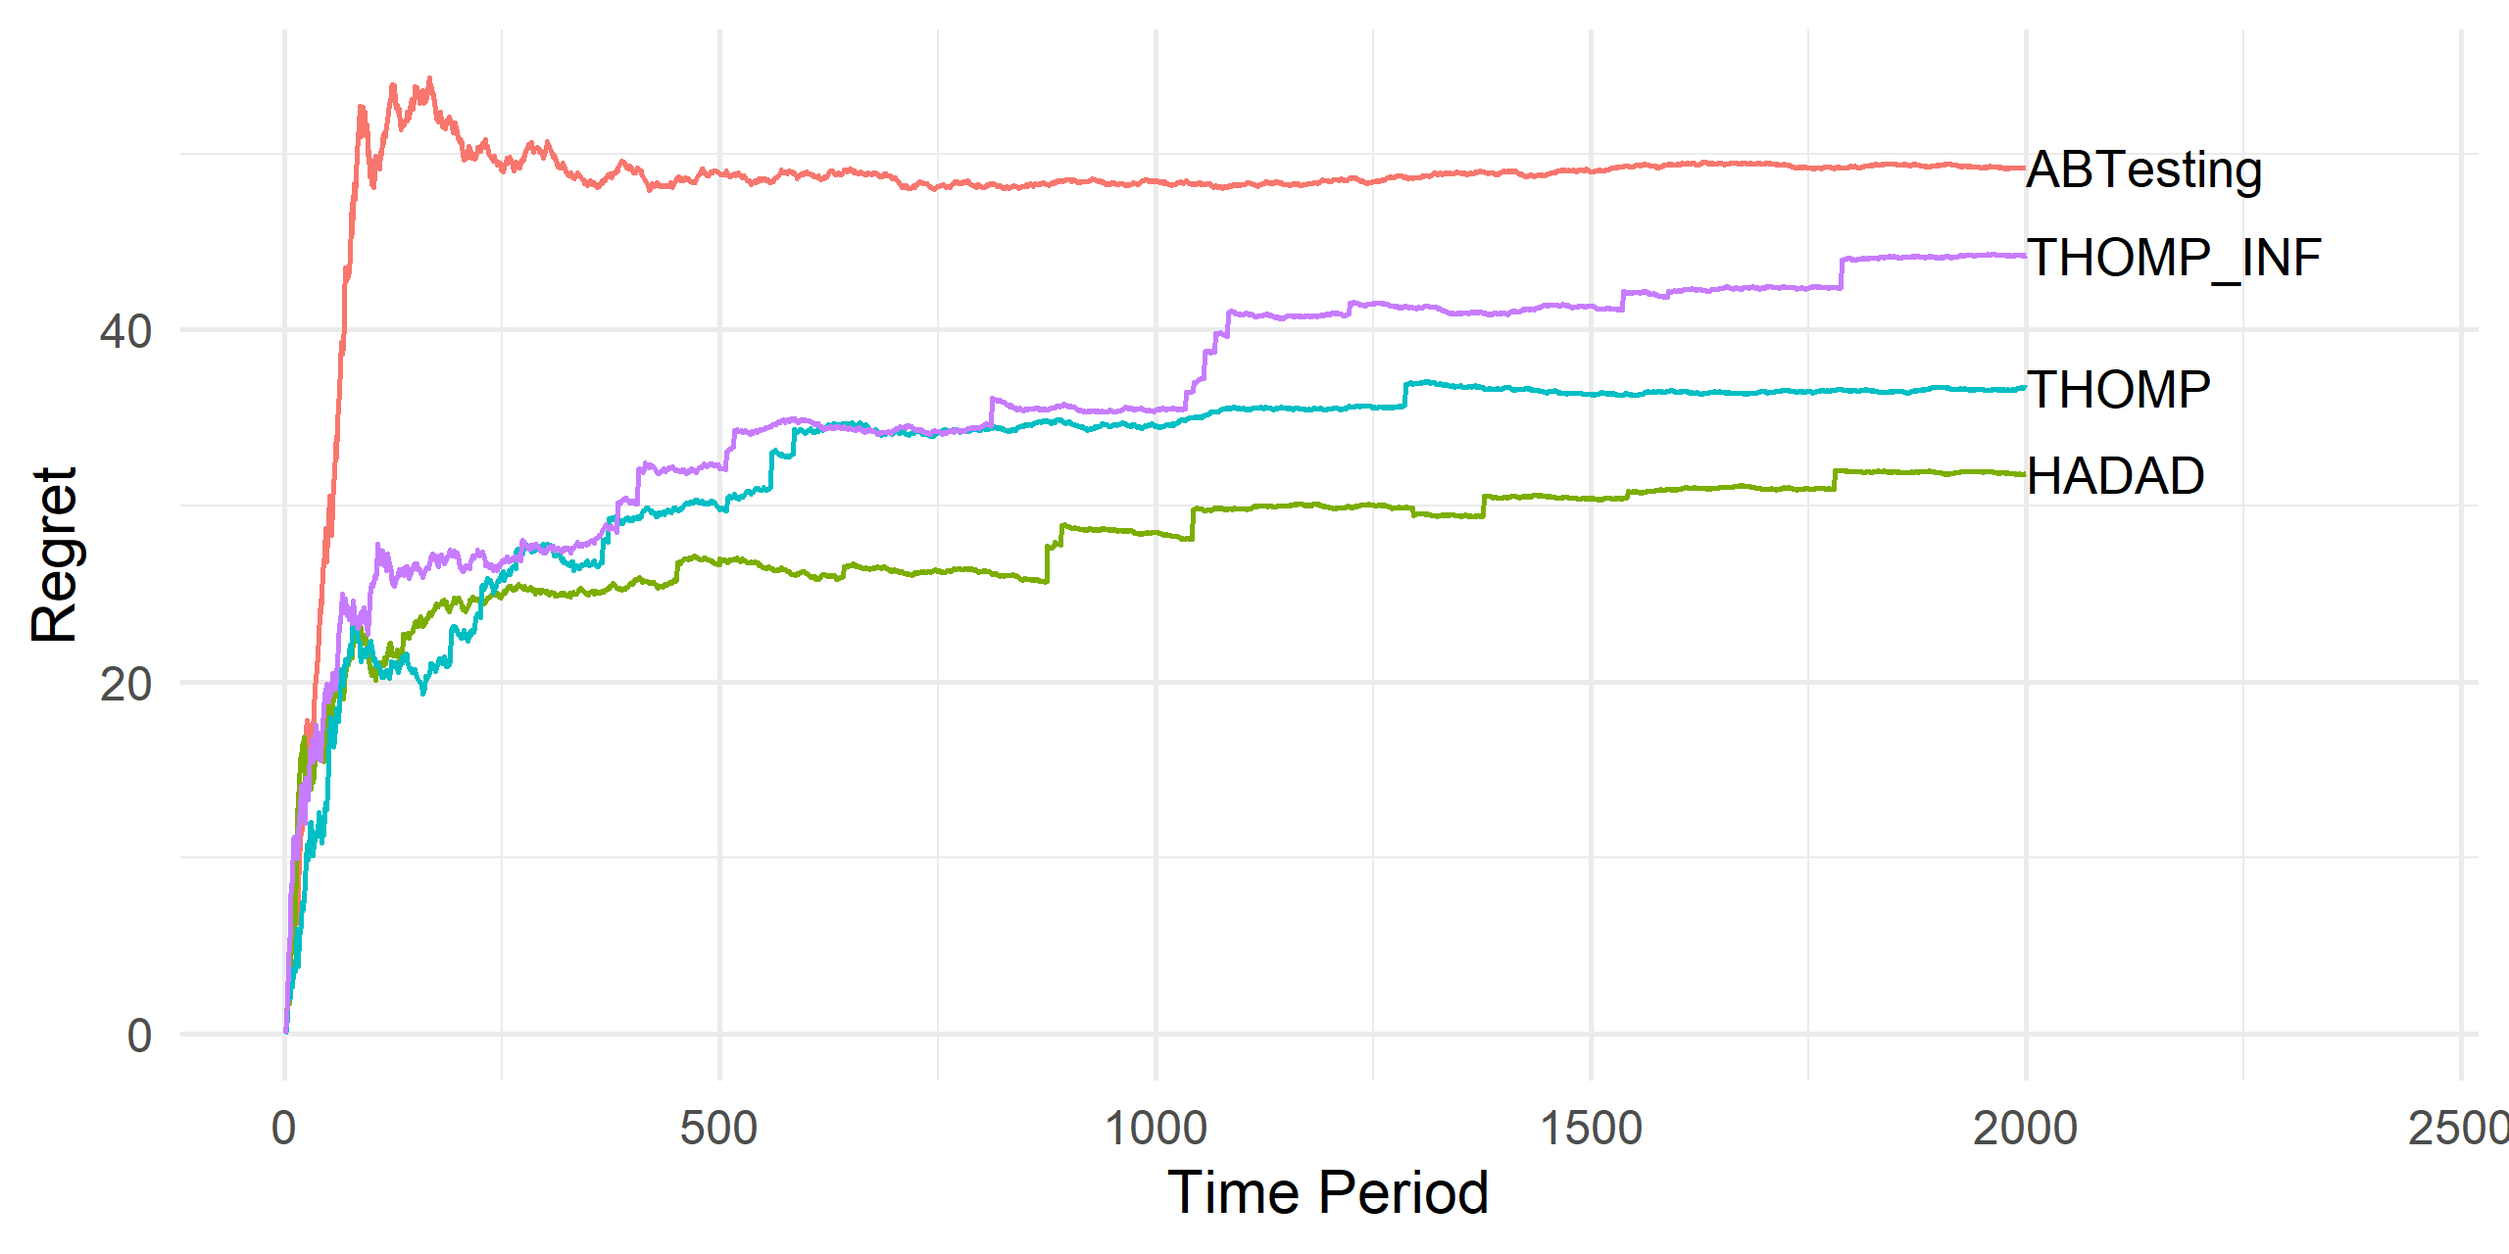
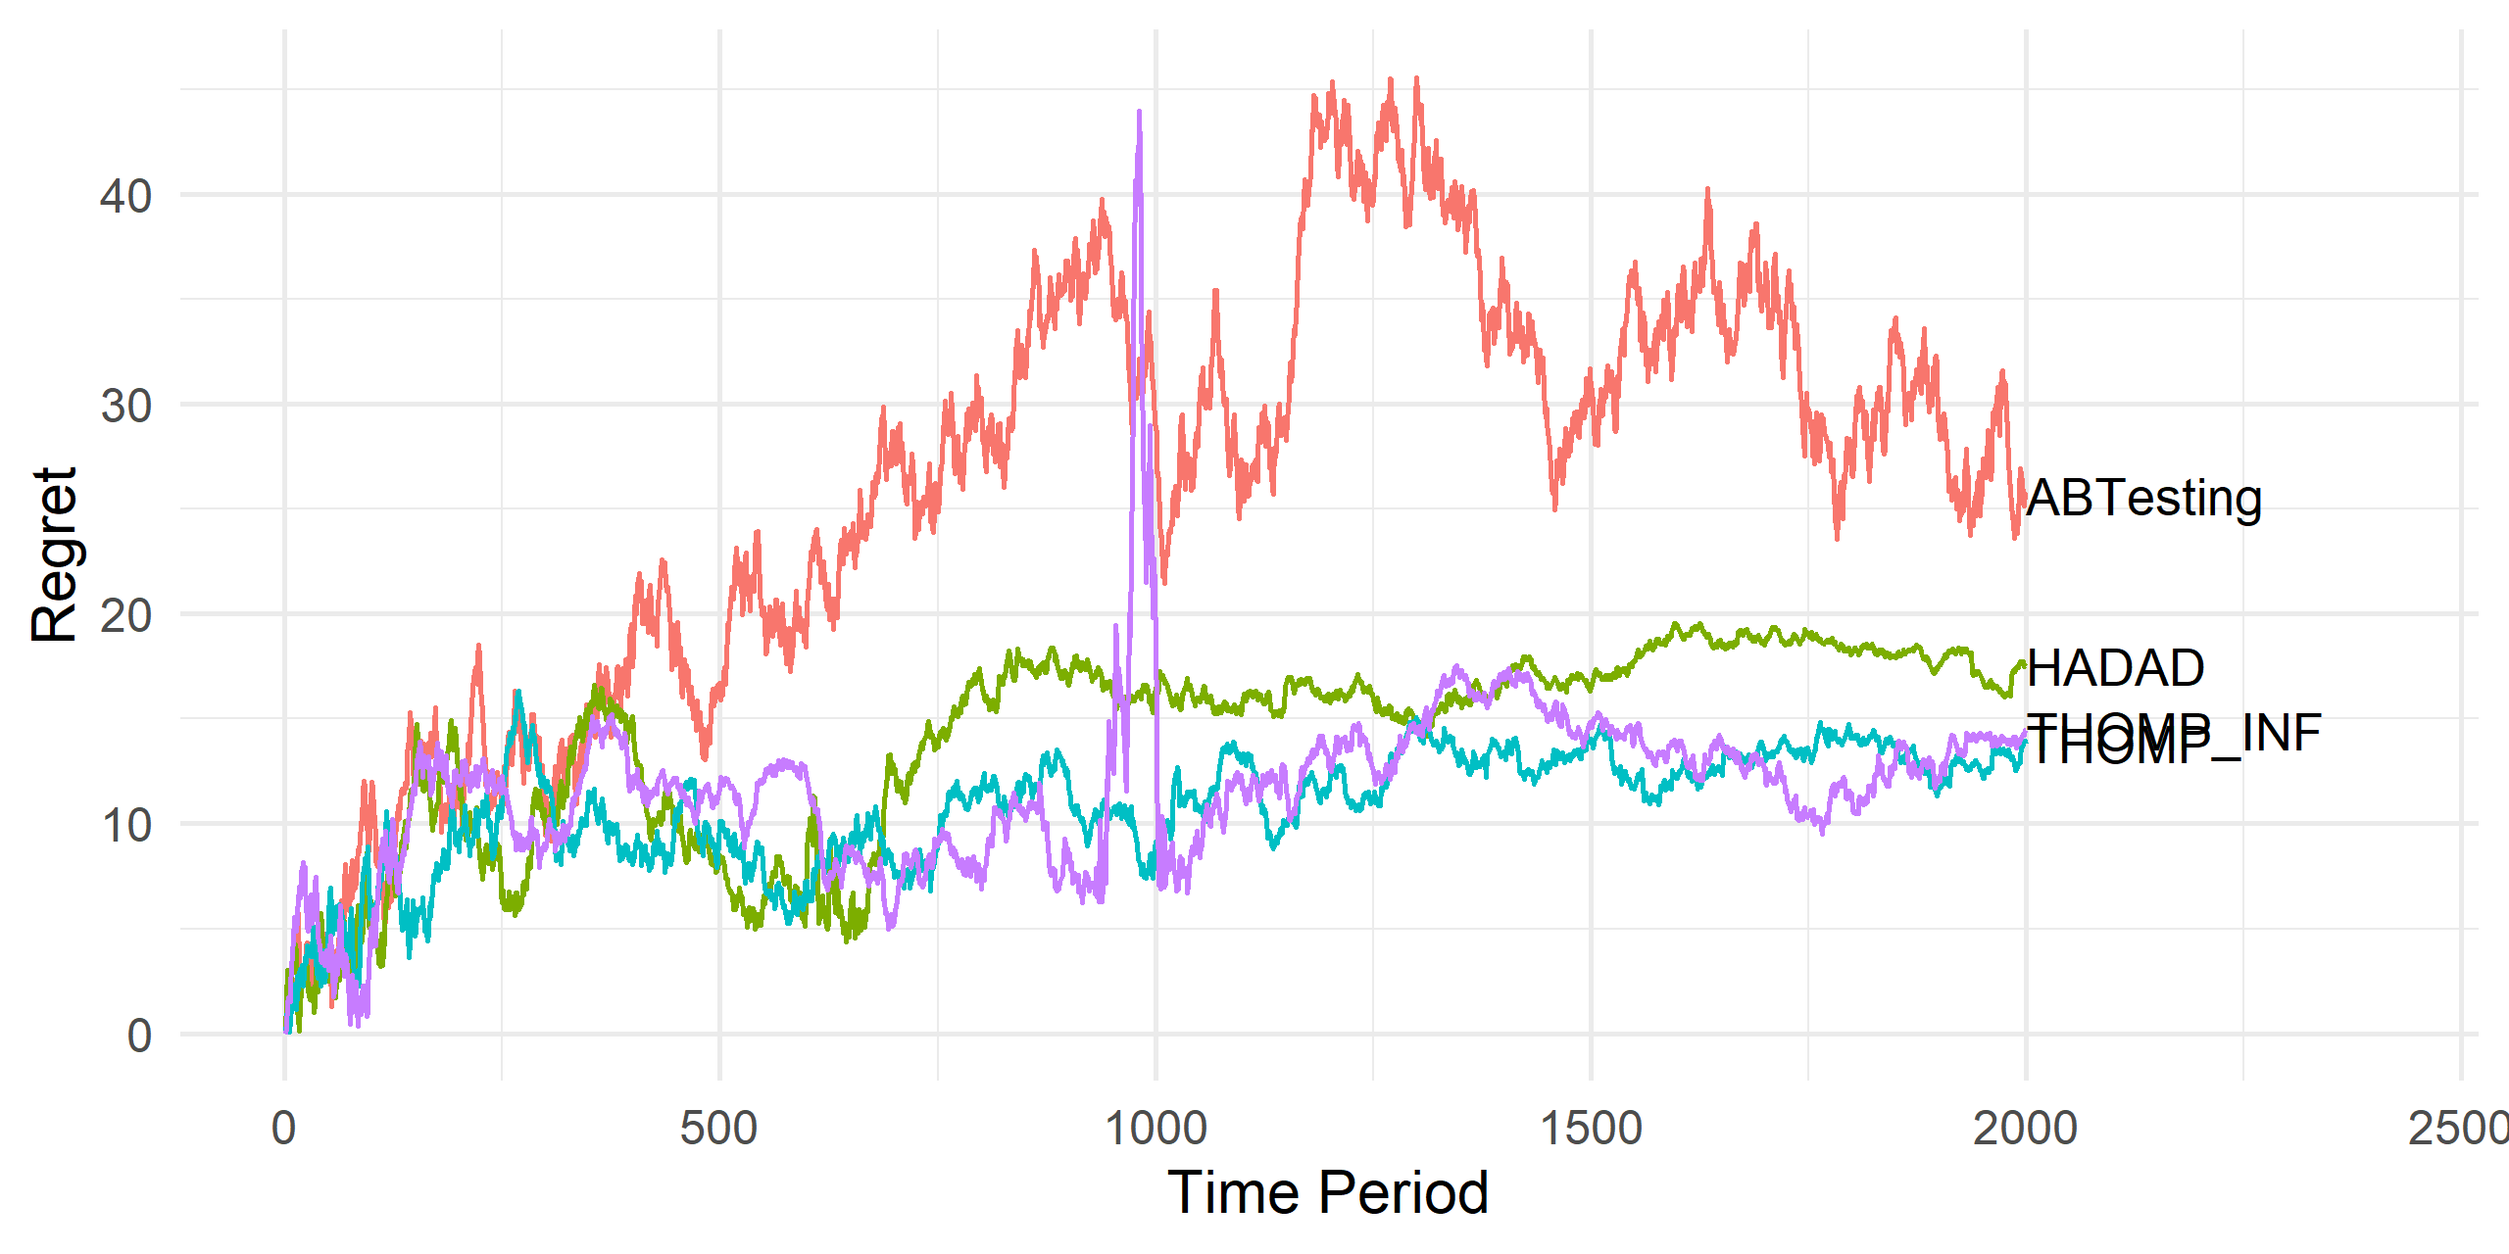
adding all bernoulli algs and functionality

diff --git a/algorithms/thompson_inf_bern.py b/algorithms/thompson_inf_bern.py
@@ -1,0 +1,92 @@
+import numpy as np
+from utils import thompson_arm_pull_bern
+from bandit import Bandit
+from math import sqrt
+
+
+def calc_eps_n(bandit, xi):
+    sum_of_st_err = (np.array(bandit.var_est_tracker) / np.array(
+        bandit.arm_pull_tracker)).sum()
+    eta = sum_of_st_err / (bandit.num_arms * xi)
+    eps_n = eta / (1 + eta)
+    return eps_n
+
+
+def thomp_inf_bern(bandit, num_rounds, xi=0.05, type_of_pull='single', cap_prop=False):
+    """Function that reproduces the steps involved in Thompson sampling
+        algorithm"""
+    print("---------------Running Thompson Inf Bern ---------------")
+
+    # we use 2 in order to calculate sample variance
+    num_arms = bandit.num_arms
+    num_initial_pulls = 3
+    for ite in range(num_initial_pulls):
+        for arm in range(num_arms):
+            if type_of_pull == 'monte_carlo':
+                bandit.pull_arm(arm, prop_lis=[1 if i == arm else 0 for i in
+                                               range(bandit.num_arms)])
+            else:
+                bandit.pull_arm(arm)
+
+    # beta bernoulli updation process
+    prior_params = [[1, 1] for i in range(num_arms)]
+    var_allocs = 0
+    for rnd in range(int(num_rounds - (num_initial_pulls * num_arms))):
+        if np.random.uniform(0, 1) < calc_eps_n(bandit, xi):
+            var_allocs += 1
+            # variance base, we pick arm proportional to the variance of
+            # mean estimate, i.e. s^2/n
+            var_of_mean_est = \
+                np.array(bandit.var_est_tracker) / np.array(
+                    bandit.arm_pull_tracker)
+            # normalizing std.err square for calculating probabilities
+            norm_prob = [v / sum(var_of_mean_est) for v in var_of_mean_est]
+            arm_var = np.random.choice(list(range(bandit.num_arms)),
+                                       p=norm_prob)
+            if type_of_pull == 'monte_carlo':
+                # this is to cap probility of allocation as per Athey's algortihm
+                if cap_prop:
+                    # the cap is defined in the paper
+                    cap = 0.1 / sqrt(rnd + 1)
+                    if np.min(norm_prob) < cap:
+                        # every arm gets cap propensity at the start, the remaining propensity is shared proportional to the
+                        # true propensity
+                        remaining_prop = 1 - cap * bandit.num_arms
+                        norm_prob = cap + np.array(norm_prob) * remaining_prop
+                        arm_var = np.random.choice(range(bandit.num_arms),
+                                                   p=norm_prob)
+                bandit.pull_arm(arm_var, prop_lis=norm_prob)
+            else:
+                bandit.pull_arm(arm_var)
+            x = bandit.reward_tracker[-1]
+            # We calculate the posterior parameters of the beta distribution
+            prior_params[arm_var][0] += x
+            prior_params[arm_var][1] += 1 - x
+        else:
+            if type_of_pull == 'monte_carlo':
+                chosen_arm, prop_lis = thompson_arm_pull_bern(param_lis=prior_params, type_of_pull=type_of_pull)
+                # this is to cap probility of allocation as per Athey's algortihm
+                if cap_prop:
+                    cap = 0.1 / sqrt(rnd + 1)
+                    chosen_arm, prop_lis = thompson_arm_pull_bern(param_lis=prior_params, type_of_pull=type_of_pull,
+                                                                  cap_prop=cap)
+                bandit.pull_arm(chosen_arm, prop_lis=prop_lis)
+            else:
+                chosen_arm = thompson_arm_pull_bern(param_lis=prior_params, type_of_pull=type_of_pull)
+                bandit.pull_arm(chosen_arm)
+            x = bandit.reward_tracker[-1]
+            # We calculate the posterior parameters of the beta distribution
+            prior_params[chosen_arm][0] += x
+            prior_params[chosen_arm][1] += 1 - x
+    print(var_allocs)
+    print(bandit.arm_pull_tracker)
+    return bandit
+
+if __name__ == '__main__':
+    # Define bandit
+    for i in range(10):
+        num_rounds = 3000
+        thompson_bandit = Bandit(name='thompson_sampling',
+                                 arm_means=[0.1, 0.2, 0.3],
+                                 dist_type='Bernoulli')
+        thomp_inf_bern(thompson_bandit, num_rounds=num_rounds, type_of_pull="monte_carlo", cap_prop=False)

diff --git a/algorithms/ab_testing_bern.py b/algorithms/ab_testing_bern.py
@@ -1,0 +1,83 @@
+import numpy as np
+from bandit import Bandit
+from statsmodels.stats.power import NormalIndPower
+from statsmodels.stats.proportion import proportion_effectsize
+
+
+def power_analysis(arm_means, alpha=0.05, beta=0.1):
+    """
+    :param alpha: significance level
+    :param beta: 1-b = power
+    :return: sample_size for EACH group
+    """
+
+    # find effect size of all arms
+    num_arms = len(arm_means)
+    effect_size_lis = []
+    for arm1 in range(num_arms):
+        for arm2 in range(num_arms):
+            if arm1 != arm2:
+                effect_size = proportion_effectsize(arm_means[arm1], arm_means[arm2])
+                effect_size_lis.append(effect_size)
+    # TODO: we calculate effect sizes twice for every pair of arms. This is a very very small
+    # gain in efficiency but a gain nonetheless
+
+    # we calculate min effect so that the sample size is large enough to
+    # detect the smallest effect of the arm in a/b testing
+    min_effect_size = np.min(np.abs(effect_size_lis))
+    # find sample size using power analysis if sample_size is none
+    # this sample size is for 1 arm
+    try:
+        sample_size = NormalIndPower().solve_power(effect_size=min_effect_size,
+                                                  power=1 - beta, alpha=alpha, ratio=1)
+    except ValueError:
+        sample_size = 1000000
+    sample_size = int(sample_size)
+    return sample_size
+
+
+def ab_testing_bern(bandit, num_rounds, sample_size=None,
+               post_allocation=True):
+    """
+    :param bandit: ab_bandit
+    :param num_rounds: total rounds for simulation
+    :param arm_means: arm_means
+    :param arm_vars: arm_vars
+    :param sample_size: allocation to each arm
+    :param post_allocation: if there should be max allocation after pure ab
+    :return: bandit
+    """
+    arm_means = bandit.arm_means
+
+    num_rounds_each = int(num_rounds / bandit.num_arms)
+    print("---------------Running AB testing Bern---------------")
+    if not sample_size:
+        # max we can do is num_rounds_each
+        sample_size = min(power_analysis(arm_means),
+                          num_rounds_each)
+
+    # simulating A/B testing
+    if sample_size > num_rounds_each:
+        sample_size = num_rounds_each
+    for round in range(sample_size):
+        for arm in range(bandit.num_arms):
+            bandit.pull_arm(arm)
+
+    # allocation of remaining subjects post AB testing
+    if post_allocation:
+        remaining_rounds = num_rounds - (sample_size * bandit.num_arms)
+        # for now we will check for means and allocate the rest to the winning
+        winning_arm = np.argmax(bandit.avg_reward_tracker)
+        for round in range(remaining_rounds):
+            bandit.pull_arm(winning_arm)
+    print(bandit.arm_pull_tracker)
+    return bandit
+
+if __name__ == '__main__':
+    # Define bandit
+    for i in range(10):
+        num_rounds = 1000
+        thompson_bandit = Bandit(name='thompson_sampling',
+                                 arm_means=[0.1, 0.3, 0.5],
+                                 dist_type='Bernoulli')
+        ab_testing_bern(thompson_bandit, num_rounds=num_rounds)

diff --git a/utils.py b/utils.py
@@ -72,7 +72,14 @@ def ucb_value_naive(num_arms, num_rounds, arm_pull_tracker,
     chosen_arm = np.argmax(ucb)
     return chosen_arm
 
-
+def ucb_value_1(num_arms, num_pulls_so_far, arm_pull_tracker,
+                avg_reward_tracker):
+    ucb = []
+    for arm in range(num_arms):
+        conf_interval = sqrt((2*log(num_pulls_so_far))/(arm_pull_tracker[arm]))
+        ucb.append(avg_reward_tracker[arm] + conf_interval)
+    chosen_arm = np.argmax(ucb)
+    return chosen_arm
 
 def lcb_value_naive(num_arms, num_rounds, arm_pull_tracker,
                     avg_reward_tracker):
@@ -154,6 +161,49 @@ def thompson_arm_pull(mean_lis, var_lis, type_of_pull='single', cap_prop=None):
         return chosen_arm, prop_score_lis
 
 
+def thompson_arm_pull_bern(param_lis, type_of_pull, cap_prop=None):
+    """
+        :param mean_lis: mean list of all arms
+        :param type_of_pull: either single pull or monte carlo pull
+        :param cap_prop: the value at which the propensity is capped
+        :return: if single pull, gives out only winning arm
+                 if monte carlo pull, gives out winning arm and prop_scores
+        """
+    num_arms = len(param_lis)
+    winning_arm = []
+    # we store all sampled values in this list
+    sample = []
+    # we sample each arm from the prior distribution
+    for arm in range(num_arms):
+        current_alpha = param_lis[arm][0]
+        current_beta = param_lis[arm][1]
+        sample.append(np.random.beta(current_alpha, current_beta))
+    # the arm that has the highest value of draw is selected
+    chosen_arm = np.argmax(sample)
+    winning_arm.append(chosen_arm)
+    if type_of_pull == 'single':
+        return chosen_arm
+    if type_of_pull == 'monte_carlo':
+        num_pulls = 20000
+        sample = []
+        for arm in range(num_arms):
+            current_alpha = param_lis[arm][0]
+            current_beta = param_lis[arm][1]
+            sample.append(np.random.beta(current_alpha, current_beta, num_pulls))
+        # the arm that has the highest value of draw is selected
+        winning_arm_lis = np.argmax(sample, axis=0)
+        arm_counter = Counter(winning_arm_lis)
+        prop_score_lis = []
+        for arm in range(num_arms):
+            prop_score_lis.append(float(arm_counter[arm] / len(winning_arm_lis)))
+        if cap_prop:
+            if np.min(prop_score_lis) < cap_prop:
+                # every arm gets cap propensity at the start, the remaining propensity is shared proportional to the
+                # true propensity
+                remaining_prop = 1 - (cap_prop * len(prop_score_lis))
+                prop_score_lis = cap_prop + (np.array(prop_score_lis) * remaining_prop)
+                chosen_arm = np.random.choice(range(num_arms), p=prop_score_lis)
+        return chosen_arm, prop_score_lis
 
 def bayesian_update(prior_params, x):
     """ m,k,v,s, are parameters of normal inverse chi squared distribution

diff --git a/algorithms/thomp_bern.py b/algorithms/thomp_bern.py
@@ -1,0 +1,52 @@
+from bandit import Bandit
+from utils import thompson_arm_pull_bern
+from math import sqrt
+
+
+def thompson_sampling_bern(bandit, num_rounds, type_of_pull='single', cap_prop=False):
+    """Function that reproduces the steps involved in Thompson sampling
+    algorithm"""
+    print("---------------Running Thompson Sampling Bern---------------")
+
+    # we use 2 in order to calculate sample variance
+    num_arms = bandit.num_arms
+    num_initial_pulls = 2
+    for ite in range(num_initial_pulls):
+        for arm in range(num_arms):
+            if type_of_pull == 'monte_carlo':
+                bandit.pull_arm(arm, prop_lis=[1 if i == arm else 0 for i in
+                                               range(bandit.num_arms)])
+            else:
+                bandit.pull_arm(arm)
+
+    # beta bernoulli updation process
+    prior_params = [[1, 1] for i in range(num_arms)]
+
+    for rnd in range(int(num_rounds - (num_initial_pulls * num_arms))):
+
+        if type_of_pull == 'monte_carlo':
+            chosen_arm, prop_lis = thompson_arm_pull_bern(param_lis=prior_params, type_of_pull=type_of_pull)
+            # this is to cap probability of allocation as per Athey's algorthm
+            if cap_prop:
+                cap = 0.1 / sqrt(rnd + 1)
+                chosen_arm, prop_lis = thompson_arm_pull_bern(param_lis=prior_params, type_of_pull=type_of_pull, cap_prop=cap)
+            bandit.pull_arm(chosen_arm, prop_lis=prop_lis)
+        else:
+            chosen_arm = thompson_arm_pull_bern(param_lis=prior_params, type_of_pull=type_of_pull)
+            bandit.pull_arm(chosen_arm)
+        x = bandit.reward_tracker[-1]
+        # We calculate the posterior parameters of the beta distribution
+        prior_params[chosen_arm][0] += x
+        prior_params[chosen_arm][1] += 1-x
+    print(bandit.arm_pull_tracker)
+    return bandit
+
+
+if __name__ == '__main__':
+    # Define bandit
+    for i in range(10):
+        num_rounds = 1000
+        thompson_bandit = Bandit(name='thompson_sampling',
+                                 arm_means=[0.1, 0.2, 0.3],
+                                 dist_type='Bernoulli')
+        thompson_sampling_bern(thompson_bandit, num_rounds=num_rounds, type_of_pull="monte_carlo", cap_prop=True)

diff --git a/algorithms/ucb_bern.py b/algorithms/ucb_bern.py
@@ -1,0 +1,30 @@
+from utils import ucb_value_1
+from bandit import Bandit
+
+
+def ucb_bern(bandit, num_rounds, type_of_pull='single'):
+    """Function that reproduces the steps involved in ucb_naive
+    algorithm"""
+    print("---------------Running UCB ---------------")
+    # choose each action once:
+    for ite in range(2):
+        for arm in range(bandit.num_arms):
+            bandit.pull_arm(arm)
+
+    ucb_rounds = num_rounds - (2 * bandit.num_arms)
+    for round in range(ucb_rounds):
+        # find UCB for all arms
+        arm_max_ucb = ucb_value_1(bandit.num_arms, len(bandit.arm_pull_tracker),
+                                      bandit.arm_pull_tracker,
+                                      bandit.avg_reward_tracker)
+        bandit.pull_arm(arm_max_ucb)
+    print(bandit.arm_pull_tracker)
+    return bandit
+
+if __name__ == '__main__':
+    # Define bandit
+    num_rounds = 1000
+    thompson_bandit = Bandit(name='thompson_sampling',
+                             arm_means=[0.1, 0.2, 0.3],
+                             dist_type='Bernoulli')
+    ucb_bern(thompson_bandit, num_rounds=num_rounds, type_of_pull="monte_carlo")

diff --git a/algorithms/thompson_inf.py b/algorithms/thompson_inf.py
@@ -9,10 +9,11 @@ def calc_eps_n(bandit, xi):
         bandit.arm_pull_tracker)).sum()
     eta = sum_of_st_err / (bandit.num_arms * xi)
     eps_n = eta / (1 + eta)
+    print(eps_n)
     return eps_n
 
 
-def thomp_inf(bandit, num_rounds, xi=0.5, type_of_pull='single', cap_prop=False):
+def thomp_inf(bandit, num_rounds, xi=0.2, type_of_pull='single', cap_prop=False):
     print("---------------Running Thompson Sampling INF ---------------")
 
     # allocate one subject to each arm (We can remove this later rules)
@@ -109,7 +110,7 @@ def thomp_inf(bandit, num_rounds, xi=0.5, type_of_pull='single', cap_prop=False)
 
 if __name__ == '__main__':
     # Define bandit
-    num_rounds = 100
+    num_rounds = 1000
     thompson_inf_eps_bandit = Bandit(name='thompson_sampling',
                              arm_means=[1,2,3],
                              arm_vars=[1,1,1]

diff --git a/bandit.py b/bandit.py
@@ -47,7 +47,8 @@ class Bandit:
         if self.dist_type == "HSN" or self.dist_type == "LSN" or self.dist_type == "ZSN":
             reward = self.arm_means[arm_num]+ np.random.uniform(-1, 1)
         # Do all updates after the arm is pulled
-
+        if self.dist_type == "Bernoulli":
+            reward = 1 if np.random.random() < self.arm_means[arm_num] else 0
         if prop_lis is not None:
             self.update_after_pull(arm_num, reward, prop_lis)
         else:
